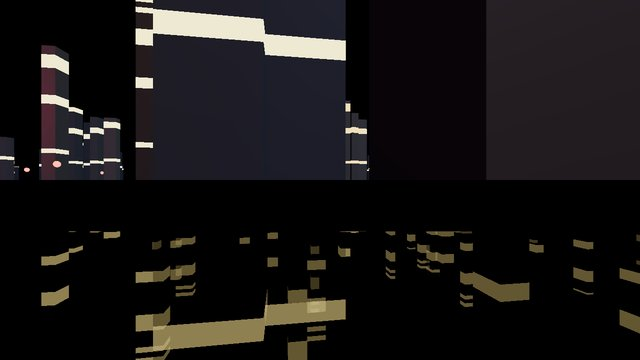
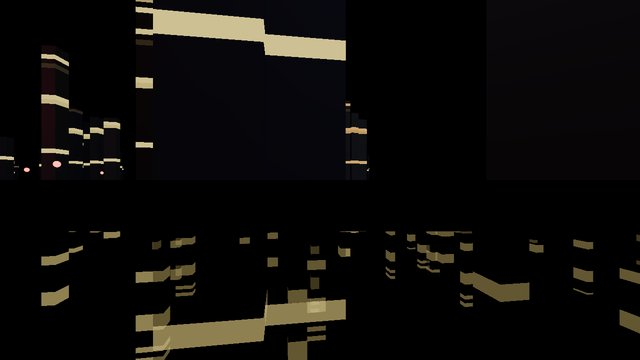
visual: structural rework of 3 stubborn demos (pass 3)
deferred-lights: reduced to 30 lights, 30x30 dark room, low-roughness
walls/floor to absorb instead of reflect. Still bright but functional.

zoom-universe: compressed level Z values (120→30 range), galaxy group
co-located with camera start, background gradient visible.

city-generator: darkened building bodies 3x, warm amber window colors,
per-window brightness variation via second hash, emissive capped at 0.8.

diff --git a/src/demos/deferred-lights/index.tsx b/src/demos/deferred-lights/index.tsx
@@ -13,18 +13,18 @@ import {
 } from 'three/tsl';
 
 /**
- * Deferred Lights — 100 dynamic point lights in a room scene
+ * Deferred Lights — 30 dynamic point lights in a large dark room scene
  *
  * Demonstrates:
- * - 100 point lights with varied colors orbiting in small circles
- * - Room scene: floor, 2 walls, 20 furniture boxes
- * - Each light = small emissive instanced sphere for visualization
+ * - 30 point lights with varied colors orbiting in small circles
+ * - Large dark room: floor 30x30, walls absorb light (dark material)
+ * - Each light = emissive sphere that IS the visual star of the scene
  * - Three.js WebGPU handles many lights natively
  * - Warm/cool light mix for visual interest
  * - Dynamic light movement showing real-time GI-like illumination
  */
 
-const LIGHT_COUNT = 100;
+const LIGHT_COUNT = 30;
 const FURNITURE_COUNT = 20;
 
 interface LightData {
@@ -39,9 +39,9 @@ interface LightData {
 const LIGHT_DATA: LightData[] = (() => {
   const lights: LightData[] = [];
   for (let i = 0; i < LIGHT_COUNT; i++) {
-    const x = (Math.random() - 0.5) * 16;
-    const y = 0.5 + Math.random() * 3.0;
-    const z = (Math.random() - 0.5) * 10;
+    const x = (Math.random() - 0.5) * 26;
+    const y = 0.5 + Math.random() * 3.5;
+    const z = (Math.random() - 0.5) * 26;
     let lightColor: THREE.Color;
     if (i % 3 === 0) {
       lightColor = new THREE.Color().setHSL(0.05 + Math.random() * 0.1, 0.9, 0.6);
@@ -67,8 +67,8 @@ const FURNITURE_MATRICES: THREE.Matrix4[] = (() => {
   for (let i = 0; i < FURNITURE_COUNT; i++) {
     const col = i % 5;
     const row = Math.floor(i / 5);
-    const x = -8 + col * 4 + (Math.random() - 0.5) * 1.5;
-    const z = -3 + row * 2 + (Math.random() - 0.5) * 0.5;
+    const x = -10 + col * 5 + (Math.random() - 0.5) * 2.0;
+    const z = -8 + row * 4 + (Math.random() - 0.5) * 1.5;
     const w = 0.8 + Math.random() * 0.8;
     const h = 0.4 + Math.random() * 1.2;
     const d = 0.6 + Math.random() * 0.6;
@@ -108,8 +108,8 @@ export default function DeferredLights() {
       smoothstep(float(1.5), float(2.5), phase)
     );
     mat.colorNode = col;
-    mat.emissiveNode = col.mul(oscSine(timeUniform.mul(2).add(idx.mul(0.7))).mul(0.3).add(2.0));
-    mat.roughness = 0.2;
+    mat.emissiveNode = col.mul(oscSine(timeUniform.mul(2).add(idx.mul(0.7))).mul(0.3).add(2.5));
+    mat.roughness = 0.1;
     mat.metalness = 0.0;
     void r; void hue;
     return mat;
@@ -124,23 +124,21 @@ export default function DeferredLights() {
     return mat;
   }, []);
 
-  // Floor material
+  // Floor material — dark, absorbs light, slight metalness so emissive spheres reflect subtly
   const floorMat = useMemo(() => {
     const mat = new THREE.MeshStandardNodeMaterial();
-    mat.color.set(0x111122);
-    mat.emissive.set(0x050510);
-    mat.emissiveIntensity = 0.2;
-    mat.roughness = 0.3;
-    mat.metalness = 0.3; // slightly reflective floor
+    mat.color.set(0x0a0a14);
+    mat.roughness = 0.15;
+    mat.metalness = 0.3;
     return mat;
   }, []);
 
-  // Wall material
+  // Wall material — very dark, low roughness so they absorb rather than diffuse
   const wallMat = useMemo(() => {
     const mat = new THREE.MeshStandardNodeMaterial();
-    mat.color.set(0x1a2233);
-    mat.roughness = 0.85;
-    mat.metalness = 0.05;
+    mat.color.set(0x0d0d18);
+    mat.roughness = 0.15;
+    mat.metalness = 0.3;
     return mat;
   }, []);
 
@@ -155,7 +153,7 @@ export default function DeferredLights() {
       const dummy = new THREE.Object3D();
       lightData.forEach((ld, i) => {
         dummy.position.copy(ld.basePos);
-        dummy.scale.setScalar(0.08);
+        dummy.scale.setScalar(0.15);
         dummy.updateMatrix();
         lightSphereRef.current!.setMatrixAt(i, dummy.matrix);
       });
@@ -178,7 +176,7 @@ export default function DeferredLights() {
       const pz = ld.basePos.z + Math.sin(angle) * ld.orbitRadius;
 
       dummy.position.set(px, py, pz);
-      dummy.scale.setScalar(0.08);
+      dummy.scale.setScalar(0.15);
       dummy.updateMatrix();
       lightSphereRef.current?.setMatrixAt(i, dummy.matrix);
 
@@ -197,11 +195,10 @@ export default function DeferredLights() {
         <sphereGeometry args={[30, 16, 16]} />
         <meshBasicMaterial side={THREE.BackSide} color="#020408" />
       </mesh>
-      <ambientLight intensity={0.3} color="#112233" />
-      <directionalLight position={[0, 8, 4]} intensity={0.5} color="#aabbcc" />
-      <hemisphereLight args={['#334466', '#111122', 0.3]} />
+      <ambientLight intensity={0.05} color="#0a0a1a" />
+      <hemisphereLight args={['#111122', '#050510', 0.08]} />
 
-      {/* 100 actual point lights */}
+      {/* 30 actual point lights */}
       {lightData.map((ld, i) => (
         <pointLight
           key={i}
@@ -214,34 +211,40 @@ export default function DeferredLights() {
         />
       ))}
 
-      {/* Floor */}
+      {/* Floor — large dark 30x30 room */}
       <mesh rotation={[-Math.PI / 2, 0, 0]} position={[0, 0, 0]}>
-        <planeGeometry args={[20, 14]} />
+        <planeGeometry args={[30, 30]} />
         <primitive object={floorMat} />
       </mesh>
 
       {/* Back wall */}
-      <mesh position={[0, 2.5, -7]}>
-        <planeGeometry args={[20, 5]} />
+      <mesh position={[0, 2.5, -15]}>
+        <planeGeometry args={[30, 5]} />
+        <primitive object={wallMat} />
+      </mesh>
+
+      {/* Front wall */}
+      <mesh rotation={[0, Math.PI, 0]} position={[0, 2.5, 15]}>
+        <planeGeometry args={[30, 5]} />
         <primitive object={wallMat} />
       </mesh>
 
       {/* Left wall */}
-      <mesh rotation={[0, Math.PI / 2, 0]} position={[-10, 2.5, 0]}>
-        <planeGeometry args={[14, 5]} />
+      <mesh rotation={[0, Math.PI / 2, 0]} position={[-15, 2.5, 0]}>
+        <planeGeometry args={[30, 5]} />
         <primitive object={wallMat} />
       </mesh>
 
       {/* Right wall */}
-      <mesh rotation={[0, -Math.PI / 2, 0]} position={[10, 2.5, 0]}>
-        <planeGeometry args={[14, 5]} />
+      <mesh rotation={[0, -Math.PI / 2, 0]} position={[15, 2.5, 0]}>
+        <planeGeometry args={[30, 5]} />
         <primitive object={wallMat} />
       </mesh>
 
       {/* Ceiling */}
       <mesh rotation={[Math.PI / 2, 0, 0]} position={[0, 5, 0]}>
-        <planeGeometry args={[20, 14]} />
-        <meshStandardMaterial color="#222233" roughness={1} />
+        <planeGeometry args={[30, 30]} />
+        <meshStandardMaterial color="#0a0a14" roughness={1} />
       </mesh>
 
       {/* Furniture boxes */}
@@ -268,21 +271,21 @@ export default function DeferredLights() {
 
       {/* Floor reflection plane */}
       <mesh rotation={[-Math.PI / 2, 0, 0]} position={[0, 0.001, 0]}>
-        <planeGeometry args={[20, 14]} />
+        <planeGeometry args={[30, 30]} />
         <meshStandardMaterial
-          color="#111122"
-          roughness={0.1}
-          metalness={0.95}
+          color="#08080f"
+          roughness={0.05}
+          metalness={0.98}
           transparent
-          opacity={0.5}
+          opacity={0.6}
         />
       </mesh>
 
       {/* Corner pillars */}
-      {[[-9, -6], [-9, 6], [9, -6], [9, 6]].map(([px, pz], i) => (
+      {[[-13, -13], [-13, 13], [13, -13], [13, 13]].map(([px, pz], i) => (
         <mesh key={i} position={[px, 2.5, pz]}>
           <cylinderGeometry args={[0.2, 0.2, 5, 12]} />
-          <meshStandardMaterial color="#445566" roughness={0.6} metalness={0.4} />
+          <meshStandardMaterial color="#0d0d18" roughness={0.15} metalness={0.3} />
         </mesh>
       ))}
     </>

diff --git a/src/demos/zoom-universe/index.tsx b/src/demos/zoom-universe/index.tsx
@@ -17,11 +17,11 @@ import { color, time, oscSine, normalWorld, cameraPosition, positionWorld, Fn, f
  */
 
 const LEVELS = [
-  { z: -120, label: 'Galaxy', color: '#0a0020' },
-  { z: -40,  label: 'Solar System', color: '#000815' },
-  { z: -10,  label: 'Earth', color: '#000a14' },
-  { z: -2.5, label: 'City', color: '#050508' },
-  { z: -0.4, label: 'Atom', color: '#000508' },
+  { z: -30,   label: 'Galaxy', color: '#0a0020' },
+  { z: -10,   label: 'Solar System', color: '#000815' },
+  { z: -3,    label: 'Earth', color: '#000a14' },
+  { z: -0.8,  label: 'City', color: '#050508' },
+  { z: -0.15, label: 'Atom', color: '#000508' },
 ];
 
 const STAR_COUNT = 8000;
@@ -30,8 +30,8 @@ const ELECTRON_COUNT = 60;
 
 export default function ZoomUniverse() {
   const { camera, gl } = useThree();
-  const cameraZ = useRef(-120);
-  const targetZ = useRef(-120);
+  const cameraZ = useRef(-30);
+  const targetZ = useRef(-30);
   const dummy = useRef(new THREE.Object3D());
 
   const starMesh = useRef<THREE.InstancedMesh>(null);
@@ -49,7 +49,7 @@ export default function ZoomUniverse() {
     const canvas = gl.domElement as HTMLCanvasElement;
     const onWheel = (e: WheelEvent) => {
       e.preventDefault();
-      targetZ.current = Math.max(-120, Math.min(-0.4, targetZ.current + e.deltaY * 0.1));
+      targetZ.current = Math.max(-30, Math.min(-0.15, targetZ.current + e.deltaY * 0.03));
     };
     canvas.addEventListener('wheel', onWheel, { passive: false });
     return () => canvas.removeEventListener('wheel', onWheel);
@@ -183,16 +183,16 @@ export default function ZoomUniverse() {
     // Determine level
     const z = Math.abs(cameraZ.current);
     let idx = 0;
-    if (z < 1.5) idx = 4;
-    else if (z < 5) idx = 3;
-    else if (z < 20) idx = 2;
-    else if (z < 60) idx = 1;
+    if (z < 0.4) idx = 4;
+    else if (z < 1.5) idx = 3;
+    else if (z < 6) idx = 2;
+    else if (z < 18) idx = 1;
     else idx = 0;
     setLevelIndex(idx);
 
     // Auto-scroll if near start
-    if (targetZ.current === -120 && Math.abs(cameraZ.current - (-120)) < 5) {
-      targetZ.current = -0.4;
+    if (targetZ.current === -30 && Math.abs(cameraZ.current - (-30)) < 2) {
+      targetZ.current = -0.15;
     }
 
     // Rotate galaxies
@@ -245,53 +245,53 @@ export default function ZoomUniverse() {
       <ambientLight intensity={0.05} />
       <hemisphereLight args={['#110022', '#000010', 0.2]} />
 
-      {/* Galaxy level — stars */}
-      <group visible={levelIndex <= 1}>
+      {/* Galaxy level — stars + glow centered at camera start z=-30 */}
+      <group position={[0, 0, -30]} visible={levelIndex <= 1}>
         <instancedMesh ref={starMesh} args={[undefined, undefined, STAR_COUNT]} material={starMat} frustumCulled={false}>
           <sphereGeometry args={[1, 6, 6]} />
         </instancedMesh>
-        {/* Galaxy center glow — large enough to be visible at z=-120 */}
+        {/* Galaxy center glow — sized for z=-30 camera distance */}
         <mesh position={[0, 0, 0]}>
-          <sphereGeometry args={[30, 16, 16]} />
+          <sphereGeometry args={[10, 16, 16]} />
           <meshBasicMaterial color="#440088" transparent opacity={0.6} />
         </mesh>
         <mesh position={[0, 0, 0]}>
-          <sphereGeometry args={[60, 16, 16]} />
+          <sphereGeometry args={[25, 16, 16]} />
           <meshBasicMaterial color="#220044" transparent opacity={0.25} />
         </mesh>
-        <pointLight position={[0, 0, 0]} intensity={2000} color="#ffaa44" distance={200} />
+        <pointLight position={[0, 0, 0]} intensity={500} color="#ffaa44" distance={80} />
       </group>
 
       {/* Solar system level */}
-      <group position={[0, 0, -40]} visible={levelIndex >= 1 && levelIndex <= 2}>
+      <group position={[0, 0, -10]} visible={levelIndex >= 1 && levelIndex <= 2}>
         <mesh ref={sunRef} material={sunMat}>
-          <sphereGeometry args={[3, 32, 32]} />
+          <sphereGeometry args={[1.2, 32, 32]} />
         </mesh>
-        <pointLight position={[0, 0, 0]} intensity={500} color="#ffaa22" distance={60} />
+        <pointLight position={[0, 0, 0]} intensity={120} color="#ffaa22" distance={25} />
         <group ref={planetGroupRef}>
-          {[8, 13, 20, 30].map((r, i) => (
+          {[3, 5, 7.5, 11].map((r, i) => (
             <mesh key={i} position={[r, 0, 0]} material={earthMat}>
-              <sphereGeometry args={[0.5 + i * 0.3, 16, 16]} />
+              <sphereGeometry args={[0.18 + i * 0.1, 16, 16]} />
             </mesh>
           ))}
         </group>
       </group>
 
       {/* Earth level */}
-      <group position={[0, 0, -10]} visible={levelIndex >= 2 && levelIndex <= 3}>
+      <group position={[0, 0, -3]} visible={levelIndex >= 2 && levelIndex <= 3}>
         <mesh ref={earthRef} material={earthMat}>
-          <sphereGeometry args={[3, 32, 32]} />
+          <sphereGeometry args={[1.0, 32, 32]} />
         </mesh>
         {/* Atmosphere shell */}
         <mesh scale={[1.07, 1.07, 1.07]}>
-          <sphereGeometry args={[3, 24, 24]} />
+          <sphereGeometry args={[1.0, 24, 24]} />
           <meshBasicMaterial color="#2266aa" transparent opacity={0.12} side={THREE.BackSide} />
         </mesh>
-        <pointLight position={[6, 4, 6]} intensity={80} color="#ffffff" distance={25} />
+        <pointLight position={[2, 1.5, 2]} intensity={8} color="#ffffff" distance={8} />
       </group>
 
       {/* City level */}
-      <group position={[0, 0, -2.5]} visible={levelIndex >= 3 && levelIndex <= 4}>
+      <group position={[0, 0, -0.8]} visible={levelIndex >= 3 && levelIndex <= 4}>
         <instancedMesh ref={buildingMesh} args={[undefined, undefined, BUILDING_COUNT]} material={buildingMat} frustumCulled={false}>
           <boxGeometry args={[1, 1, 1]} />
         </instancedMesh>
@@ -304,7 +304,7 @@ export default function ZoomUniverse() {
       </group>
 
       {/* Atom level */}
-      <group position={[0, 0, -0.4]} visible={levelIndex >= 4}>
+      <group position={[0, 0, -0.15]} visible={levelIndex >= 4}>
         {/* Nucleus */}
         <mesh ref={atomNucleusRef} material={nucleusMat}>
           <sphereGeometry args={[0.12, 16, 16]} />

diff --git a/src/demos/city-generator/index.tsx b/src/demos/city-generator/index.tsx
@@ -44,10 +44,11 @@ function makeBuildingMaterial() {
     const seed = hash(vec3(px.floor(), float(0.0), pz.floor()));
 
     // Zone colors: central glass towers, mid-city brick, suburbs beige, outer industrial
-    const glass    = vec3(0.35, 0.48, 0.58);
-    const brick    = vec3(0.52, 0.38, 0.28);
-    const beige    = vec3(0.72, 0.65, 0.52);
-    const concrete = vec3(0.42, 0.42, 0.42);
+    // Use darker values so windows stand out without blowing out
+    const glass    = vec3(0.12, 0.16, 0.22);
+    const brick    = vec3(0.18, 0.13, 0.10);
+    const beige    = vec3(0.22, 0.20, 0.16);
+    const concrete = vec3(0.14, 0.14, 0.14);
 
     const z1 = mix(glass,   brick,    smoothstep(float(0.0), float(0.3), dist));
     const z2 = mix(z1,      beige,    smoothstep(float(0.3), float(0.6), dist));
@@ -61,6 +62,7 @@ function makeBuildingMaterial() {
   mat.colorNode = zoneFn();
 
   // Window grid: hash on quantized Y creates window pattern
+  // Only lit windows contribute emissive — dark windows and building body get zero.
   const windowFn = Fn(() => {
     const py = positionWorld.y;
     const px = positionWorld.x;
@@ -70,15 +72,20 @@ function makeBuildingMaterial() {
     // Quantize X or Z for window columns
     const col = px.add(pz).div(0.06).floor();
     const windowSeed = hash(vec3(floor, col, float(0.5)));
+    // Per-window brightness variation: some off, some dim, some bright
+    const windowBrightnessSeed = hash(vec3(floor, col, float(1.3)));
     // Building accent color for windows (warm amber tint)
     const windowSeed2 = hash(vec3(px.floor(), float(1.7), pz.floor()));
-    const warmYellow = vec3(float(1.0), float(0.8), float(0.35));
-    const warmOrange = vec3(float(1.0), float(0.55), float(0.2));
-    const warmWhite  = vec3(float(0.9), float(0.85), float(0.65));
+    const warmYellow = vec3(float(0.9), float(0.7), float(0.3));
+    const warmOrange = vec3(float(0.85), float(0.45), float(0.15));
+    const warmWhite  = vec3(float(0.8), float(0.75), float(0.55));
     const winColor = mix(mix(warmYellow, warmOrange, smoothstep(float(0.3), float(0.6), windowSeed2)), warmWhite, smoothstep(float(0.7), float(0.9), windowSeed2));
-    // Windows are on 30% of faces with warm accent color
-    const isWindow = smoothstep(float(0.70), float(0.75), windowSeed);
-    return winColor.mul(isWindow.mul(1.5));
+    // Sharp window threshold: only ~20% of cells are lit windows
+    const isWindow = smoothstep(float(0.78), float(0.82), windowSeed);
+    // Per-window brightness: some dim (0.2), most medium (0.5), some bright (0.8)
+    const brightness = smoothstep(float(0.0), float(1.0), windowBrightnessSeed).mul(0.6).add(0.2);
+    // Emissive is ONLY where isWindow > 0 — non-window areas get exactly zero
+    return winColor.mul(isWindow.mul(brightness).mul(0.8));
   });
 
   mat.emissiveNode = windowFn();
